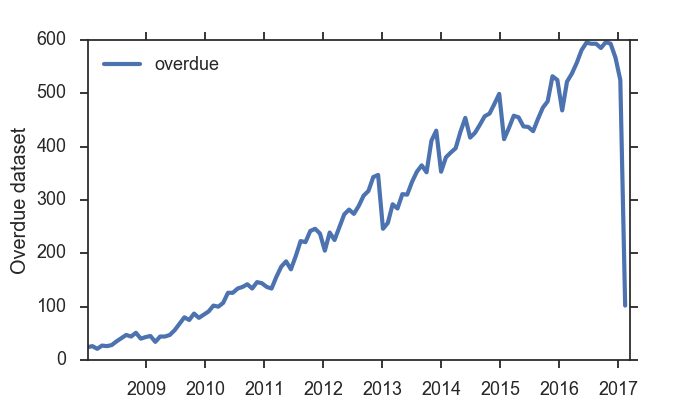
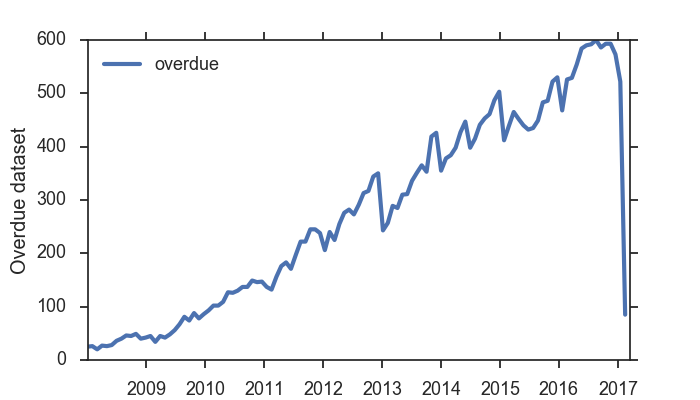
snapshot from yesterday

diff --git a/docs/index.html b/docs/index.html
@@ -7,7 +7,7 @@ Open Science Data Watch
 
 <center>
 <h1> Datasets overdue for publication in GEO repository </h1>
-<h3> Updated: 2017-02-14 </h3>
+<h3> Updated: 2017-02-15 </h3>
 <img src="graph.png">
 <br>
 An "overdue" dataset is one that is still has yet to be made public even after the first detected reference in a publication. 
@@ -18,7 +18,7 @@ Based on <a href="https://gbnci-abcc.ncifcrf.gov/geo/">GEOmetadb</a> with timest
 <br>
 </center>
 <br/><br/>
-<h4>Waiting for 102 datasets as of 2017-02-14:</h4>
+<h4>Waiting for 85 datasets as of 2017-02-15:</h4>
 <center>
 <table border="1" class="dataframe">
   <thead>
@@ -116,13 +116,6 @@ Based on <a href="https://gbnci-abcc.ncifcrf.gov/geo/">GEOmetadb</a> with timest
       <td>The leak channel NALCN controls tonic firing and glycolytic sensitivity of substantia nigra pars reticulata neurons</td>
     </tr>
     <tr>
-      <td><a href="http://www.ncbi.nlm.nih.gov/geo/query/acc.cgi?acc=GSE76183">GSE76183</a></td>
-      <td>2016-06-10</td>
-      <td>Blood Cancer J</td>
-      <td><a href="http://dx.doi.org/10.1038/bcj.2016.41">10.1038/bcj.2016.41</a></td>
-      <td>p53-independent ibrutinib responses in an Eμ-TCL1 mouse model demonstrates efficacy in high-risk CLL</td>
-    </tr>
-    <tr>
       <td><a href="http://www.ncbi.nlm.nih.gov/geo/query/acc.cgi?acc=GSE83480">GSE83480</a></td>
       <td>2016-06-21</td>
       <td>J Mol Psychiatry</td>
@@ -144,27 +137,6 @@ Based on <a href="https://gbnci-abcc.ncifcrf.gov/geo/">GEOmetadb</a> with timest
       <td>Dual tumor suppressing and promoting function of Notch1 signaling in human prostate cancer</td>
     </tr>
     <tr>
-      <td><a href="http://www.ncbi.nlm.nih.gov/geo/query/acc.cgi?acc=GSE66012">GSE66012</a></td>
-      <td>2016-06-30</td>
-      <td>Nat Commun</td>
-      <td><a href="http://dx.doi.org/10.1038/ncomms12039">10.1038/ncomms12039</a></td>
-      <td>Deficient methylation and formylation of mt-tRNAMet wobble cytosine in a patient carrying mutations in NSUN3</td>
-    </tr>
-    <tr>
-      <td><a href="http://www.ncbi.nlm.nih.gov/geo/query/acc.cgi?acc=GSE80536">GSE80536</a></td>
-      <td>2016-07-21</td>
-      <td>PLoS One</td>
-      <td><a href="http://dx.doi.org/10.1371/journal.pone.0159591">10.1371/journal.pone.0159591</a></td>
-      <td>Identification and Characterization of Sex-Biased MicroRNAs in Bactrocera dorsalis (Hendel)</td>
-    </tr>
-    <tr>
-      <td><a href="http://www.ncbi.nlm.nih.gov/geo/query/acc.cgi?acc=GSE69703">GSE69703</a></td>
-      <td>2016-07-28</td>
-      <td>Sci Rep</td>
-      <td><a href="http://dx.doi.org/10.1038/srep30405">10.1038/srep30405</a></td>
-      <td>Melanoma dormancy in a mouse model is linked to GILZ/FOXO3A-dependent quiescence of disseminated stem-like cells</td>
-    </tr>
-    <tr>
       <td><a href="http://www.ncbi.nlm.nih.gov/geo/query/acc.cgi?acc=GSE83153">GSE83153</a></td>
       <td>2016-07-28</td>
       <td>Genes Immun</td>
@@ -172,25 +144,11 @@ Based on <a href="https://gbnci-abcc.ncifcrf.gov/geo/">GEOmetadb</a> with timest
       <td>Analysis of Ly49 gene transcripts in mature NK cells supports a role for the Pro1 element in gene activation, not gene expression</td>
     </tr>
     <tr>
-      <td><a href="http://www.ncbi.nlm.nih.gov/geo/query/acc.cgi?acc=GSE79726">GSE79726</a></td>
-      <td>2016-08-04</td>
-      <td>Sci Rep</td>
-      <td><a href="http://dx.doi.org/10.1038/srep30584">10.1038/srep30584</a></td>
-      <td>Transcriptome landscape of Synechococcus elongatus PCC 7942 for nitrogen starvation responses using RNA-seq</td>
-    </tr>
-    <tr>
       <td><a href="http://www.ncbi.nlm.nih.gov/geo/query/acc.cgi?acc=GSE77446">GSE77446</a></td>
       <td>2016-08-16</td>
       <td>Sci Rep</td>
       <td><a href="http://dx.doi.org/10.1038/srep31567">10.1038/srep31567</a></td>
       <td>The loss of ATP2C1 impairs the DNA damage response and induces altered skin homeostasis: Consequences for epidermal biology in Hailey-Hailey disease</td>
-    </tr>
-    <tr>
-      <td><a href="http://www.ncbi.nlm.nih.gov/geo/query/acc.cgi?acc=GSE84779">GSE84779</a></td>
-      <td>2016-08-18</td>
-      <td>PLoS One</td>
-      <td><a href="http://dx.doi.org/10.1371/journal.pone.0159956">10.1371/journal.pone.0159956</a></td>
-      <td>MicroRNAs Expression in the Ileal Pouch of Patients with Ulcerative Colitis Is Robustly Up-Regulated and Correlates with Disease Phenotypes</td>
     </tr>
     <tr>
       <td><a href="http://www.ncbi.nlm.nih.gov/geo/query/acc.cgi?acc=GSE82486">GSE82486</a></td>
@@ -277,25 +235,11 @@ Based on <a href="https://gbnci-abcc.ncifcrf.gov/geo/">GEOmetadb</a> with timest
       <td>Simvastatin induces cell cycle arrest and inhibits proliferation of bladder cancer cells via PPARγ signalling pathway</td>
     </tr>
     <tr>
-      <td><a href="http://www.ncbi.nlm.nih.gov/geo/query/acc.cgi?acc=GSE59760">GSE59760</a></td>
-      <td>2016-10-26</td>
-      <td>Nat Commun</td>
-      <td><a href="http://dx.doi.org/10.1038/ncomms13091">10.1038/ncomms13091</a></td>
-      <td>Multi-omic data integration enables discovery of hidden biological regularities</td>
-    </tr>
-    <tr>
       <td><a href="http://www.ncbi.nlm.nih.gov/geo/query/acc.cgi?acc=GSE82234">GSE82234</a></td>
       <td>2016-10-26</td>
       <td>Aging Cell</td>
       <td><a href="http://dx.doi.org/10.1111/acel.12544">10.1111/acel.12544</a></td>
       <td>Senescence‐associated DNA methylation is stochastically acquired in subpopulations of mesenchymal stem cells</td>
-    </tr>
-    <tr>
-      <td><a href="http://www.ncbi.nlm.nih.gov/geo/query/acc.cgi?acc=GSE59759">GSE59759</a></td>
-      <td>2016-10-26</td>
-      <td>Nat Commun</td>
-      <td><a href="http://dx.doi.org/10.1038/ncomms13091">10.1038/ncomms13091</a></td>
-      <td>Multi-omic data integration enables discovery of hidden biological regularities</td>
     </tr>
     <tr>
       <td><a href="http://www.ncbi.nlm.nih.gov/geo/query/acc.cgi?acc=GSE74759">GSE74759</a></td>
@@ -310,13 +254,6 @@ Based on <a href="https://gbnci-abcc.ncifcrf.gov/geo/">GEOmetadb</a> with timest
       <td>PLoS One</td>
       <td><a href="http://dx.doi.org/10.1371/journal.pone.0165694">10.1371/journal.pone.0165694</a></td>
       <td>The Conserved Dcw Gene Cluster of R. sphaeroides Is Preceded by an Uncommonly Extended 5’ Leader Featuring the sRNA UpsM</td>
-    </tr>
-    <tr>
-      <td><a href="http://www.ncbi.nlm.nih.gov/geo/query/acc.cgi?acc=GSE80596">GSE80596</a></td>
-      <td>2016-11-03</td>
-      <td>Sci Rep</td>
-      <td><a href="http://dx.doi.org/10.1038/srep36384">10.1038/srep36384</a></td>
-      <td>Transcriptome Analysis of the Signalling Networks in Coronatine-Induced Secondary Laticifer Differentiation from Vascular Cambia in Rubber Trees</td>
     </tr>
     <tr>
       <td><a href="http://www.ncbi.nlm.nih.gov/geo/query/acc.cgi?acc=GSE87364">GSE87364</a></td>
@@ -340,13 +277,6 @@ Based on <a href="https://gbnci-abcc.ncifcrf.gov/geo/">GEOmetadb</a> with timest
       <td>Drug Repositioning through Systematic Mining of Gene Coexpression Networks in Cancer</td>
     </tr>
     <tr>
-      <td><a href="http://www.ncbi.nlm.nih.gov/geo/query/acc.cgi?acc=GSE83481">GSE83481</a></td>
-      <td>2016-11-08</td>
-      <td>Sci Rep</td>
-      <td><a href="http://dx.doi.org/10.1038/srep36009">10.1038/srep36009</a></td>
-      <td>Transcriptome analysis uncovers key regulatory and metabolic aspects of soybean embryonic axes during germination</td>
-    </tr>
-    <tr>
       <td><a href="http://www.ncbi.nlm.nih.gov/geo/query/acc.cgi?acc=GSE87027">GSE87027</a></td>
       <td>2016-11-08</td>
       <td>Front Microbiol</td>
@@ -354,25 +284,11 @@ Based on <a href="https://gbnci-abcc.ncifcrf.gov/geo/">GEOmetadb</a> with timest
       <td>Regulated Inflammation and Lipid Metabolism in Colon mRNA Expressions of Obese Germfree Mice Responding to Enterobacter cloacae B29 Combined with the High Fat Diet</td>
     </tr>
     <tr>
-      <td><a href="http://www.ncbi.nlm.nih.gov/geo/query/acc.cgi?acc=GSE77463">GSE77463</a></td>
-      <td>2016-11-11</td>
-      <td>EMBO J</td>
-      <td><a href="http://dx.doi.org/10.15252/embj.201694639">10.15252/embj.201694639</a></td>
-      <td>Small RNA interactome of pathogenic E. coli revealed through crosslinking of RNase E</td>
-    </tr>
-    <tr>
       <td><a href="http://www.ncbi.nlm.nih.gov/geo/query/acc.cgi?acc=GSE88736">GSE88736</a></td>
       <td>2016-11-16</td>
       <td>Front Mol Neurosci</td>
       <td><a href="http://dx.doi.org/10.3389/fnmol.2016.00119">10.3389/fnmol.2016.00119</a></td>
       <td>Transcriptomics of Environmental Enrichment Reveals a Role for Retinoic Acid Signaling in Addiction</td>
-    </tr>
-    <tr>
-      <td><a href="http://www.ncbi.nlm.nih.gov/geo/query/acc.cgi?acc=GSE85193">GSE85193</a></td>
-      <td>2016-11-17</td>
-      <td>J Hematol Oncol</td>
-      <td><a href="http://dx.doi.org/10.1186/s13045-016-0350-6">10.1186/s13045-016-0350-6</a></td>
-      <td>CD274 promotes cell cycle entry of leukemia-initiating cells through JNK/Cyclin D2 signaling</td>
     </tr>
     <tr>
       <td><a href="http://www.ncbi.nlm.nih.gov/geo/query/acc.cgi?acc=GSE70853">GSE70853</a></td>
@@ -389,25 +305,11 @@ Based on <a href="https://gbnci-abcc.ncifcrf.gov/geo/">GEOmetadb</a> with timest
       <td>Microarray Expression Profiling of Long Non-Coding RNAs Involved in Nasopharyngeal Carcinoma Metastasis</td>
     </tr>
     <tr>
-      <td><a href="http://www.ncbi.nlm.nih.gov/geo/query/acc.cgi?acc=GSE77048">GSE77048</a></td>
-      <td>2016-11-25</td>
-      <td>Int J Biol Sci</td>
-      <td><a href="http://dx.doi.org/10.7150/ijbs.15514">10.7150/ijbs.15514</a></td>
-      <td>Exosomes Derived from Human Endothelial Progenitor Cells Accelerate Cutaneous Wound Healing by Promoting Angiogenesis Through Erk1/2 Signaling</td>
-    </tr>
-    <tr>
       <td><a href="http://www.ncbi.nlm.nih.gov/geo/query/acc.cgi?acc=GSE88915">GSE88915</a></td>
       <td>2016-11-30</td>
       <td>Sci Rep</td>
       <td><a href="http://dx.doi.org/10.1038/srep37876">10.1038/srep37876</a></td>
       <td>Depletion of tRNA-halves enables effective small RNA sequencing of low-input murine serum samples</td>
-    </tr>
-    <tr>
-      <td><a href="http://www.ncbi.nlm.nih.gov/geo/query/acc.cgi?acc=GSE78052">GSE78052</a></td>
-      <td>2016-12-06</td>
-      <td>Sci Rep</td>
-      <td><a href="http://dx.doi.org/10.1038/srep38385">10.1038/srep38385</a></td>
-      <td>Proteomic profiling reveals that collismycin A is an iron chelator</td>
     </tr>
     <tr>
       <td><a href="http://www.ncbi.nlm.nih.gov/geo/query/acc.cgi?acc=GSE83149">GSE83149</a></td>
@@ -422,13 +324,6 @@ Based on <a href="https://gbnci-abcc.ncifcrf.gov/geo/">GEOmetadb</a> with timest
       <td>Stem Cell Reports</td>
       <td><a href="http://dx.doi.org/10.1016/j.stemcr.2016.11.006">10.1016/j.stemcr.2016.11.006</a></td>
       <td>Direct Conversion of Human Fibroblasts into Neural Progenitors Using Transcription Factors Enriched in Human ESC-Derived Neural Progenitors</td>
-    </tr>
-    <tr>
-      <td><a href="http://www.ncbi.nlm.nih.gov/geo/query/acc.cgi?acc=GSE85210">GSE85210</a></td>
-      <td>2016-12-09</td>
-      <td>PLoS One</td>
-      <td><a href="http://dx.doi.org/10.1371/journal.pone.0166486">10.1371/journal.pone.0166486</a></td>
-      <td>Distinct Epigenetic Effects of Tobacco Smoking in Whole Blood and among Leukocyte Subtypes</td>
     </tr>
     <tr>
       <td><a href="http://www.ncbi.nlm.nih.gov/geo/query/acc.cgi?acc=GSE87875">GSE87875</a></td>
@@ -450,13 +345,6 @@ Based on <a href="https://gbnci-abcc.ncifcrf.gov/geo/">GEOmetadb</a> with timest
       <td>EBioMedicine</td>
       <td><a href="http://dx.doi.org/10.1016/j.ebiom.2016.12.007">10.1016/j.ebiom.2016.12.007</a></td>
       <td>Violet Light Exposure Can Be a Preventive Strategy Against Myopia Progression</td>
-    </tr>
-    <tr>
-      <td><a href="http://www.ncbi.nlm.nih.gov/geo/query/acc.cgi?acc=GSE84935">GSE84935</a></td>
-      <td>2016-12-18</td>
-      <td>Redox Biol</td>
-      <td><a href="http://dx.doi.org/10.1016/j.redox.2016.12.015">10.1016/j.redox.2016.12.015</a></td>
-      <td>Autophagy deficient keratinocytes display increased DNA damage, senescence and aberrant lipid composition after oxidative stress in vitro and in vivo</td>
     </tr>
     <tr>
       <td><a href="http://www.ncbi.nlm.nih.gov/geo/query/acc.cgi?acc=GSE87020">GSE87020</a></td>
@@ -501,32 +389,11 @@ Based on <a href="https://gbnci-abcc.ncifcrf.gov/geo/">GEOmetadb</a> with timest
       <td>A Systems Approach Implicates a Brain Mitochondrial Oxidative Homeostasis Co-expression Network in Genetic Vulnerability to Alcohol Withdrawal</td>
     </tr>
     <tr>
-      <td><a href="http://www.ncbi.nlm.nih.gov/geo/query/acc.cgi?acc=GSE86378">GSE86378</a></td>
-      <td>2017-01-03</td>
-      <td>eLife</td>
-      <td><a href="http://dx.doi.org/10.7554/eLife.21738">10.7554/eLife.21738</a></td>
-      <td>Streptomyces exploration is triggered by fungal interactions and volatile signals</td>
-    </tr>
-    <tr>
-      <td><a href="http://www.ncbi.nlm.nih.gov/geo/query/acc.cgi?acc=GSE79479">GSE79479</a></td>
-      <td>2017-01-05</td>
-      <td>Sci Rep</td>
-      <td><a href="http://dx.doi.org/10.1038/srep38864">10.1038/srep38864</a></td>
-      <td>Effect of dietary Astragalus Polysaccharide supplements on testicular miRNA expression profiles and enzymatic changes of breeder cocks</td>
-    </tr>
-    <tr>
-      <td><a href="http://www.ncbi.nlm.nih.gov/geo/query/acc.cgi?acc=GSE80022">GSE80022</a></td>
-      <td>2017-01-05</td>
-      <td>EJNMMI Res</td>
-      <td><a href="http://dx.doi.org/10.1186/s13550-016-0247-y">10.1186/s13550-016-0247-y</a></td>
-      <td>Priming increases the anti-tumor effect and therapeutic window of 177Lu-octreotate in nude mice bearing human small intestine neuroendocrine tumor GOT1</td>
-    </tr>
-    <tr>
-      <td><a href="http://www.ncbi.nlm.nih.gov/geo/query/acc.cgi?acc=GSE86641">GSE86641</a></td>
+      <td><a href="http://www.ncbi.nlm.nih.gov/geo/query/acc.cgi?acc=GSE86891">GSE86891</a></td>
       <td>2017-01-05</td>
       <td>Front Plant Sci</td>
-      <td><a href="http://dx.doi.org/10.3389/fpls.2016.02024">10.3389/fpls.2016.02024</a></td>
-      <td>Identification of Circular RNAs and Their Targets in Leaves of Triticum aestivum L. under Dehydration Stress</td>
+      <td><a href="http://dx.doi.org/10.3389/fpls.2016.01979">10.3389/fpls.2016.01979</a></td>
+      <td>A Grapevine TTG2-Like WRKY Transcription Factor Is Involved in Regulating Vacuolar Transport and Flavonoid Biosynthesis</td>
     </tr>
     <tr>
       <td><a href="http://www.ncbi.nlm.nih.gov/geo/query/acc.cgi?acc=GSE86890">GSE86890</a></td>
@@ -536,11 +403,25 @@ Based on <a href="https://gbnci-abcc.ncifcrf.gov/geo/">GEOmetadb</a> with timest
       <td>A Grapevine TTG2-Like WRKY Transcription Factor Is Involved in Regulating Vacuolar Transport and Flavonoid Biosynthesis</td>
     </tr>
     <tr>
-      <td><a href="http://www.ncbi.nlm.nih.gov/geo/query/acc.cgi?acc=GSE86891">GSE86891</a></td>
+      <td><a href="http://www.ncbi.nlm.nih.gov/geo/query/acc.cgi?acc=GSE80022">GSE80022</a></td>
+      <td>2017-01-05</td>
+      <td>EJNMMI Res</td>
+      <td><a href="http://dx.doi.org/10.1186/s13550-016-0247-y">10.1186/s13550-016-0247-y</a></td>
+      <td>Priming increases the anti-tumor effect and therapeutic window of 177Lu-octreotate in nude mice bearing human small intestine neuroendocrine tumor GOT1</td>
+    </tr>
+    <tr>
+      <td><a href="http://www.ncbi.nlm.nih.gov/geo/query/acc.cgi?acc=GSE79479">GSE79479</a></td>
+      <td>2017-01-05</td>
+      <td>Sci Rep</td>
+      <td><a href="http://dx.doi.org/10.1038/srep38864">10.1038/srep38864</a></td>
+      <td>Effect of dietary Astragalus Polysaccharide supplements on testicular miRNA expression profiles and enzymatic changes of breeder cocks</td>
+    </tr>
+    <tr>
+      <td><a href="http://www.ncbi.nlm.nih.gov/geo/query/acc.cgi?acc=GSE86641">GSE86641</a></td>
       <td>2017-01-05</td>
       <td>Front Plant Sci</td>
-      <td><a href="http://dx.doi.org/10.3389/fpls.2016.01979">10.3389/fpls.2016.01979</a></td>
-      <td>A Grapevine TTG2-Like WRKY Transcription Factor Is Involved in Regulating Vacuolar Transport and Flavonoid Biosynthesis</td>
+      <td><a href="http://dx.doi.org/10.3389/fpls.2016.02024">10.3389/fpls.2016.02024</a></td>
+      <td>Identification of Circular RNAs and Their Targets in Leaves of Triticum aestivum L. under Dehydration Stress</td>
     </tr>
     <tr>
       <td><a href="http://www.ncbi.nlm.nih.gov/geo/query/acc.cgi?acc=GSE84440">GSE84440</a></td>
@@ -571,18 +452,11 @@ Based on <a href="https://gbnci-abcc.ncifcrf.gov/geo/">GEOmetadb</a> with timest
       <td>Functional changes in mRNA expression and alternative pre-mRNA splicing associated with the effects of nutrition on apoptosis and spermatogenesis in the adult testis</td>
     </tr>
     <tr>
-      <td><a href="http://www.ncbi.nlm.nih.gov/geo/query/acc.cgi?acc=GSE89202">GSE89202</a></td>
+      <td><a href="http://www.ncbi.nlm.nih.gov/geo/query/acc.cgi?acc=GSE86621">GSE86621</a></td>
       <td>2017-01-11</td>
-      <td>Sci Rep</td>
-      <td><a href="http://dx.doi.org/10.1038/srep40413">10.1038/srep40413</a></td>
-      <td>MiR-218 targets MeCP2 and inhibits heroin seeking behavior</td>
-    </tr>
-    <tr>
-      <td><a href="http://www.ncbi.nlm.nih.gov/geo/query/acc.cgi?acc=GSE80634">GSE80634</a></td>
-      <td>2017-01-11</td>
-      <td>Cell Host Microbe</td>
-      <td><a href="http://dx.doi.org/10.1016/j.chom.2016.12.003">10.1016/j.chom.2016.12.003</a></td>
-      <td>A Knockout Screen of ApiAP2 Genes Reveals Networks of Interacting Transcriptional Regulators Controlling the Plasmodium Life Cycle</td>
+      <td>Exp Hematol Oncol</td>
+      <td><a href="http://dx.doi.org/10.1186/s40164-016-0063-0">10.1186/s40164-016-0063-0</a></td>
+      <td>Molecular classification of tissue from a transformed non-Hogkin’s lymphoma case with unexpected long-time remission</td>
     </tr>
     <tr>
       <td><a href="http://www.ncbi.nlm.nih.gov/geo/query/acc.cgi?acc=GSE86613">GSE86613</a></td>
@@ -599,11 +473,18 @@ Based on <a href="https://gbnci-abcc.ncifcrf.gov/geo/">GEOmetadb</a> with timest
       <td>Molecular classification of tissue from a transformed non-Hogkin’s lymphoma case with unexpected long-time remission</td>
     </tr>
     <tr>
-      <td><a href="http://www.ncbi.nlm.nih.gov/geo/query/acc.cgi?acc=GSE86621">GSE86621</a></td>
+      <td><a href="http://www.ncbi.nlm.nih.gov/geo/query/acc.cgi?acc=GSE89202">GSE89202</a></td>
       <td>2017-01-11</td>
-      <td>Exp Hematol Oncol</td>
-      <td><a href="http://dx.doi.org/10.1186/s40164-016-0063-0">10.1186/s40164-016-0063-0</a></td>
-      <td>Molecular classification of tissue from a transformed non-Hogkin’s lymphoma case with unexpected long-time remission</td>
+      <td>Sci Rep</td>
+      <td><a href="http://dx.doi.org/10.1038/srep40413">10.1038/srep40413</a></td>
+      <td>MiR-218 targets MeCP2 and inhibits heroin seeking behavior</td>
+    </tr>
+    <tr>
+      <td><a href="http://www.ncbi.nlm.nih.gov/geo/query/acc.cgi?acc=GSE80634">GSE80634</a></td>
+      <td>2017-01-11</td>
+      <td>Cell Host Microbe</td>
+      <td><a href="http://dx.doi.org/10.1016/j.chom.2016.12.003">10.1016/j.chom.2016.12.003</a></td>
+      <td>A Knockout Screen of ApiAP2 Genes Reveals Networks of Interacting Transcriptional Regulators Controlling the Plasmodium Life Cycle</td>
     </tr>
     <tr>
       <td><a href="http://www.ncbi.nlm.nih.gov/geo/query/acc.cgi?acc=GSE86505">GSE86505</a></td>
@@ -641,13 +522,6 @@ Based on <a href="https://gbnci-abcc.ncifcrf.gov/geo/">GEOmetadb</a> with timest
       <td>PIK3CA mutations are common in lobular carcinoma in situ, but are not a biomarker of progression</td>
     </tr>
     <tr>
-      <td><a href="http://www.ncbi.nlm.nih.gov/geo/query/acc.cgi?acc=GSE91383">GSE91383</a></td>
-      <td>2017-01-18</td>
-      <td>Clin Transl Med</td>
-      <td><a href="http://dx.doi.org/10.1186/s40169-016-0133-2">10.1186/s40169-016-0133-2</a></td>
-      <td>The antineoplastic drug, trastuzumab, dysregulates metabolism in iPSC-derived cardiomyocytes</td>
-    </tr>
-    <tr>
       <td><a href="http://www.ncbi.nlm.nih.gov/geo/query/acc.cgi?acc=GSE79612">GSE79612</a></td>
       <td>2017-01-18</td>
       <td>BMC Bioinformatics</td>
@@ -660,6 +534,27 @@ Based on <a href="https://gbnci-abcc.ncifcrf.gov/geo/">GEOmetadb</a> with timest
       <td>Nat Commun</td>
       <td><a href="http://dx.doi.org/10.1038/ncomms14122">10.1038/ncomms14122</a></td>
       <td>Fluid shear stress activates YAP1 to promote cancer cell motility</td>
+    </tr>
+    <tr>
+      <td><a href="http://www.ncbi.nlm.nih.gov/geo/query/acc.cgi?acc=GSE91383">GSE91383</a></td>
+      <td>2017-01-18</td>
+      <td>Clin Transl Med</td>
+      <td><a href="http://dx.doi.org/10.1186/s40169-016-0133-2">10.1186/s40169-016-0133-2</a></td>
+      <td>The antineoplastic drug, trastuzumab, dysregulates metabolism in iPSC-derived cardiomyocytes</td>
+    </tr>
+    <tr>
+      <td><a href="http://www.ncbi.nlm.nih.gov/geo/query/acc.cgi?acc=GSE77119">GSE77119</a></td>
+      <td>2017-01-19</td>
+      <td>BMC Plant Biol</td>
+      <td><a href="http://dx.doi.org/10.1186/s12870-016-0960-8">10.1186/s12870-016-0960-8</a></td>
+      <td>Comparative RNA-seq based transcriptomic analysis of bud dormancy in grape</td>
+    </tr>
+    <tr>
+      <td><a href="http://www.ncbi.nlm.nih.gov/geo/query/acc.cgi?acc=GSE88899">GSE88899</a></td>
+      <td>2017-01-19</td>
+      <td>BMC Musculoskelet Disord</td>
+      <td><a href="http://dx.doi.org/10.1186/s12891-017-1389-4">10.1186/s12891-017-1389-4</a></td>
+      <td>Plasma miRNA expression profiles in rheumatoid arthritis associated interstitial lung disease</td>
     </tr>
     <tr>
       <td><a href="http://www.ncbi.nlm.nih.gov/geo/query/acc.cgi?acc=GSE80148">GSE80148</a></td>
@@ -681,20 +576,6 @@ Based on <a href="https://gbnci-abcc.ncifcrf.gov/geo/">GEOmetadb</a> with timest
       <td>Genes Nutr</td>
       <td><a href="http://dx.doi.org/10.1186/s12263-016-0550-2">10.1186/s12263-016-0550-2</a></td>
       <td>Protein-restricted diet during pregnancy after insemination alters behavioral phenotypes of the progeny</td>
-    </tr>
-    <tr>
-      <td><a href="http://www.ncbi.nlm.nih.gov/geo/query/acc.cgi?acc=GSE88899">GSE88899</a></td>
-      <td>2017-01-19</td>
-      <td>BMC Musculoskelet Disord</td>
-      <td><a href="http://dx.doi.org/10.1186/s12891-017-1389-4">10.1186/s12891-017-1389-4</a></td>
-      <td>Plasma miRNA expression profiles in rheumatoid arthritis associated interstitial lung disease</td>
-    </tr>
-    <tr>
-      <td><a href="http://www.ncbi.nlm.nih.gov/geo/query/acc.cgi?acc=GSE77119">GSE77119</a></td>
-      <td>2017-01-19</td>
-      <td>BMC Plant Biol</td>
-      <td><a href="http://dx.doi.org/10.1186/s12870-016-0960-8">10.1186/s12870-016-0960-8</a></td>
-      <td>Comparative RNA-seq based transcriptomic analysis of bud dormancy in grape</td>
     </tr>
     <tr>
       <td><a href="http://www.ncbi.nlm.nih.gov/geo/query/acc.cgi?acc=GSE83962">GSE83962</a></td>
